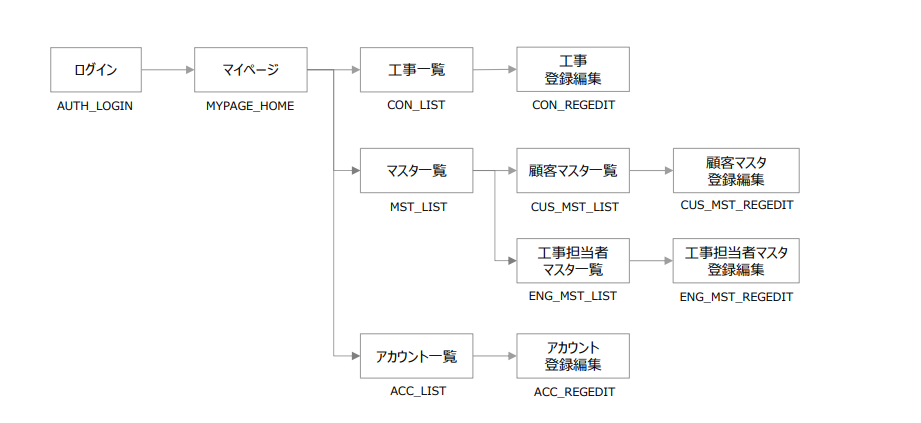
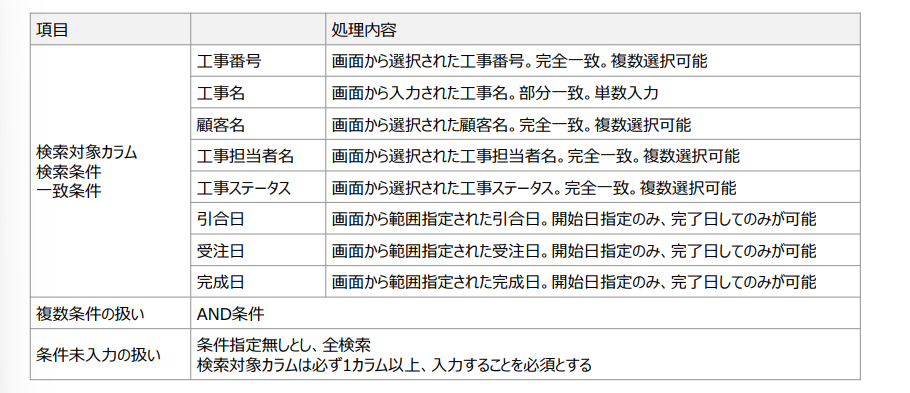
テーブル修正

diff --git a/システムエンジニア 実践研修3基本設計演習.md b/システムエンジニア 実践研修3基本設計演習.md
@@ -207,7 +207,7 @@ STEP2以降、さらなる機能拡張として以下の機能を実装を予定
 
 | テーブル名 | テーブル論理名 | カラム名 | カラム論理名 | データ型 | 桁数 | PK（主キー） | NN（必須項目） | FK（外部キー） | UNIQUE（一意） | 説明 |
 | --- | --- | --- | --- | --- | --- | --- | --- | --- | --- | --- |
-| T_role | 権限 | role_id | 権限ID | INT AUTO_INCREMENT |  | Y | Y |  |  | 1：管理者、2：工事担当者 |
+| T_role | 権限 | role_id | 権限ID | INT AUTO_INCREMENT |  | Y | Y |  | Y | 1：管理者、2：工事担当者 |
 | T_role | 権限 | role_name | 権限名 | VARCHAR | 63 |  | Y |  |  | |
 | T_role | 権限 | created_at | 作成日時 | DATETIME |  |  | Y |  |  | |
 | T_role | 権限 | updated_at | 更新日時 | DATETIME |  |  | Y |  |  | |
@@ -216,7 +216,7 @@ STEP2以降、さらなる機能拡張として以下の機能を実装を予定
 
 | テーブル名 | テーブル論理名 | カラム名 | カラム論理名 | データ型 | 桁数 | PK（主キー） | NN（必須項目） | FK（外部キー） | UNIQUE（一意） | 説明 |
 | --- | --- | --- | --- | --- | --- | --- | --- | --- | --- | --- |
-| T_contractor | 工事担当者 | contractor_id | 工事担当者ID | INT AUTO_INCREMENT |  | Y | Y |  |  | |
+| T_contractor | 工事担当者 | contractor_id | 工事担当者ID | INT AUTO_INCREMENT |  | Y | Y |  | Y | |
 | T_contractor | 工事担当者 | contractor_name | 工事担当者名 | VARCHAR | 127 |  | Y |  |  | |
 | T_contractor | 工事担当者 | organization_name | 所属組織名 | VARCHAR | 127 |  | Y |  |  | |
 | T_contractor | 工事担当者 | email | メールアドレス | VARCHAR | 255 |  | Y |  |  | |
@@ -230,8 +230,8 @@ STEP2以降、さらなる機能拡張として以下の機能を実装を予定
 | --- | --- | --- | --- | --- | --- | --- | --- | --- | --- | --- |
 | T_customer | 顧客 | customer_id | 顧客ID | INT AUTO_INCREMENT |  | Y | Y |  | Y | |
 | T_customer | 顧客 | company_name | 会社名 | VARCHAR | 127 |  | Y |  |  | |
-| T_customer | 顧客 | contact_name | 担当者名 | VARCHAR | 127 |  | Y |  |  | |
-| T_customer | 顧客 | address | 住所 | VARCHAR | 127 |  | Y |  |  | |
+| T_customer | 顧客 | contact_name | 担当者名 | VARCHAR | 127 |  |  |  |  | |
+| T_customer | 顧客 | address | 住所 | VARCHAR | 127 |  |  |  |  | |
 | T_customer | 顧客 | phone_number | 電話番号 | VARCHAR | 63 |  |  |  |  | |
 | T_customer | 顧客 | email | メールアドレス | VARCHAR | 255 |  |  |  |  | |
 | T_customer | 顧客 | notes | 備考 | VARCHAR | 255 |  |  |  |  | |
@@ -251,7 +251,7 @@ STEP2以降、さらなる機能拡張として以下の機能を実装を予定
 
 | テーブル名 | テーブル論理名 | カラム名 | カラム論理名 | データ型 | 桁数 | PK（主キー） | NN（必須項目） | FK（外部キー） | UNIQUE（一意） | 説明 |
 | --- | --- | --- | --- | --- | --- | --- | --- | --- | --- | --- |
-| T_construction | 工事 | construction_id | 工事ID | INT AUTO_INCREMENT |  | Y | Y |  |  | |
+| T_construction | 工事 | construction_id | 工事ID | INT AUTO_INCREMENT |  | Y | Y |  | Y | |
 | T_construction | 工事 | construction_name | 工事名 | VARCHAR | 127 |  | Y |  |  | |
 | T_construction | 工事 | customer_id | 顧客ID | INT |  |  | Y | Y |  | 工事-顧客IDを参照 |
 | T_construction | 工事 | contractor_id | 工事担当者ID | INT |  |  | Y | Y |  | 工事担当者、工事担当者IDを参照 |
@@ -288,21 +288,21 @@ STEP2以降、さらなる機能拡張として以下の機能を実装を予定
 | 顧客ID | 必須 | 必須 | 必須 | 必須 | 必須 |
 | 工事担当者ID | 必須 | 必須 | 必須 | 必須 | 必須 |
 | 引合日 | 必須 | 必須 | 必須 | 必須 | 必須 |
-| 受注日 |  |  | 必須 | 必須 | 必須 |
-| 完成日 |  |  |  | 必須 | 必須 |
-| 開始予定日 |  | 必須 | 必須 | 必須 | 必須 |
-| 完了予定日 |  | 必須 | 必須 | 必須 | 必須 |
-| 開始日 |  |  |  | 必須 | 必須 |
-| 完了日 |  |  |  | 必須 | 必須 |
-| 見込額 | 必須 | 必須 | 必須 |  |  |
-| 見積額 |  | 必須 | 必須 |  |  |
-| 受注額 |  |  | 必須 | 必須 | 必須 |
-| 見積材料費 |  | 必須 | 必須 | 必須 | 必須 |
-| 見積外注費 |  | 必須 | 必須 | 必須 | 必須 |
-| 見積経費 |  | 必須 | 必須 | 必須 | 必須 |
-| 実際材料費 |  |  |  | 必須 | 必須 |
-| 実際外注費 |  |  |  | 必須 | 必須 |
-| 実際経費 |  |  |  | 必須 | 必須 |
+| 受注日 |  |  | 必須 | 必須 |  |
+| 完成日 |  |  |  | 必須 |  |
+| 開始予定日 |  | 必須 | 必須 | 必須 |  |
+| 完了予定日 |  | 必須 | 必須 | 必須 |  |
+| 開始日 |  |  |  | 必須 |  |
+| 完了日 |  |  |  | 必須 |  |
+| 見込額 | 必須 | 必須 | 必須 | 必須 | 必須 |
+| 見積額 |  | 必須 | 必須 | 必須 |  |
+| 受注額 |  |  | 必須 | 必須 |  |
+| 見積材料費 |  | 必須 | 必須 | 必須 |  |
+| 見積外注費 |  | 必須 | 必須 | 必須 |  |
+| 見積経費 |  | 必須 | 必須 | 必須 |  |
+| 実際材料費 |  |  |  | 必須 |  |
+| 実際外注費 |  |  |  | 必須 |  |
+| 実際経費 |  |  |  | 必須 |  |
 | 作成日時 | 必須 | 必須 | 必須 | 必須 | 必須 |
 | 更新日時 | 必須 | 必須 | 必須 | 必須 | 必須 |
 
